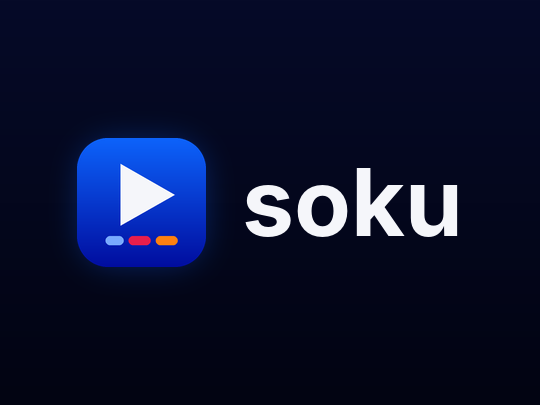
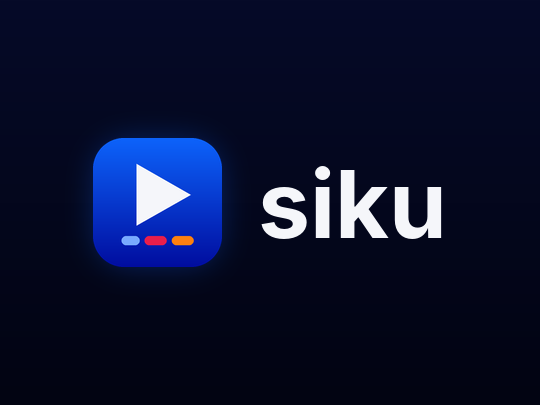
chore: rename the channel from Soku to Siku
Updates the channel title, wordmark artwork, client identification header,
registry section, package names and docs.

Claude-Session: https://claude.ai/code/session_0197yKnvHq8dGXvHnpw7Q92Y

Changed region(s): [[0.1185, 0.3259, 0.4148, 0.6815], [0.4444, 0.4148, 0.8593, 0.5926]]

diff --git a/scripts/make_images.py b/scripts/make_images.py
@@ -1,6 +1,6 @@
-"""Generates Soku's channel artwork (icons, splash, logo) with Pillow.
+"""Generates Siku's channel artwork (icons, splash, logo) with Pillow.
 
-Soku uses its own mark — a rounded play tile with a three-color "speed" stripe —
+Siku uses its own mark — a rounded play tile with a three-color "speed" stripe —
 in Silo's palette. It deliberately does not reproduce the Silo logo.
 Run: python3 scripts/make_images.py
 """
@@ -60,9 +60,9 @@ def wordmark_width(font, text):
 
 
 def lockup(canvas, center, mark_size, font_size):
-    """Draws mark + 'soku' wordmark centred at `center` on an RGB canvas."""
+    """Draws mark + 'siku' wordmark centred at `center` on an RGB canvas."""
     font = ImageFont.truetype(FONT, font_size)
-    text = "soku"
+    text = "siku"
     gap = int(mark_size * 0.28)
     tw = wordmark_width(font, text)
     total = mark_size + gap + tw

diff --git a/tools/mock_server.py b/tools/mock_server.py
@@ -1,10 +1,10 @@
-"""A small fake Silo server for exercising Soku in the brs-engine simulator.
+"""A small fake Silo server for exercising Siku in the brs-engine simulator.
 
 It speaks the /api/v2 shapes documented in docs/api-spec.md, with a synthetic
 library (movies, series with seasons and episodes, people) and generated artwork.
 
 Run:  python3 tools/mock_server.py [--port 8097]
-Then connect Soku to http://127.0.0.1:8097
+Then connect Siku to http://127.0.0.1:8097
 
 Device sign-in auto-approves on the second poll. Password login accepts any
 username with password "silo". The "Kids" profile has PIN 1234.

diff --git a/tools/simulate.py b/tools/simulate.py
@@ -41,7 +41,7 @@ def main():
     OUT = os.path.abspath(args.out)
     os.makedirs(OUT, exist_ok=True)
     log = open(os.path.join(OUT, "console.log"), "wb")
-    zip_path = os.path.join(OUT, "soku.zip")
+    zip_path = os.path.join(OUT, "siku.zip")
 
     subprocess.run(["sh", "-c", "cd '%s' && zip -qrD '%s' manifest source components images fonts -x '*.DS_Store'" % (ROOT, zip_path)], check=True)
     args.app = zip_path

diff --git a/README.md b/README.md
@@ -1,12 +1,12 @@
-# Soku
+# Siku
 
-**Soku is a Roku client for [Silo](https://github.com/Silo-Server/silo-server), the self-hosted media server.**
+**Siku is a Roku client for [Silo](https://github.com/Silo-Server/silo-server), the self-hosted media server.**
 
-Soku brings your Silo library to Roku TVs and streaming players. It is a port of the official [Silo Android TV client](https://github.com/Silo-Server/silo-android) to Roku SceneGraph and BrightScript, and aims to look, feel and behave like it on a 10-foot, remote-driven screen.
+Siku brings your Silo library to Roku TVs and streaming players. It is a port of the official [Silo Android TV client](https://github.com/Silo-Server/silo-android) to Roku SceneGraph and BrightScript, and aims to look, feel and behave like it on a 10-foot, remote-driven screen.
 
-> **Status:** early development. Soku is not yet usable. This README describes the planned v1 scope; the checklist below tracks what is built.
+> **Status:** early development. Siku is not yet usable. This README describes the planned v1 scope; the checklist below tracks what is built.
 >
-> Soku is an independent community project. It is not made or endorsed by Silo Media L.L.C. "Silo" is a trademark of Silo Media L.L.C. and is used here only to say what Soku connects to.
+> Siku is an independent community project. It is not made or endorsed by Silo Media L.L.C. "Silo" is a trademark of Silo Media L.L.C. and is used here only to say what Siku connects to.
 
 ---
 
@@ -31,7 +31,7 @@ Not planned for v1: Watch Party, Requests, AI subtitle tools, ebooks (also absen
 
 ## Install (side-load)
 
-Soku is not in the Roku Channel Store. To run it on your own Roku:
+Siku is not in the Roku Channel Store. To run it on your own Roku:
 
 1. **Turn on developer mode.** On the Roku remote press **Home ×3, Up ×2, Right, Left, Right, Left, Right**. Note the IP address shown, accept the license and set a developer password. The Roku restarts.
 2. **Build the package** (see [Build](#build)) or download a release zip.
@@ -46,7 +46,7 @@ Requirements: Node.js 18+ and `zip`.
 ```sh
 npm install          # installs the BrighterScript compiler used for linting
 npm run lint         # validates BrightScript and SceneGraph XML
-npm run package      # writes out/soku.zip, ready to side-load
+npm run package      # writes out/siku.zip, ready to side-load
 ```
 
 To deploy straight to a Roku in developer mode:
@@ -72,7 +72,7 @@ scripts/                 Packaging and deploy helpers
 
 ## How it works
 
-Soku talks to a Silo server over the same HTTP API as the Android clients. The server owns the library, metadata, transcoding decisions and accounts; Soku displays them and drives playback with Roku's native `Video` node. When playback starts, Soku describes what this Roku can decode (H.264, HEVC, AAC, AC3/EAC3, HLS…) so the server can pick Direct Play, Remux or Transcode.
+Siku talks to a Silo server over the same HTTP API as the Android clients. The server owns the library, metadata, transcoding decisions and accounts; Siku displays them and drives playback with Roku's native `Video` node. When playback starts, Siku describes what this Roku can decode (H.264, HEVC, AAC, AC3/EAC3, HLS…) so the server can pick Direct Play, Remux or Transcode.
 
 ## References
 
@@ -82,6 +82,6 @@ Soku talks to a Silo server over the same HTTP API as the Android clients. The s
 
 ## License
 
-Soku is free software, released under the **GNU Affero General Public License v3.0 or later** (`AGPL-3.0-or-later`). See [LICENSE](LICENSE). It ports logic and UI from the AGPL-3.0 [Silo Android client](https://github.com/Silo-Server/silo-android).
+Siku is free software, released under the **GNU Affero General Public License v3.0 or later** (`AGPL-3.0-or-later`). See [LICENSE](LICENSE). It ports logic and UI from the AGPL-3.0 [Silo Android client](https://github.com/Silo-Server/silo-android).
 
-The Silo name and logo are trademarks of Silo Media L.L.C. and are not covered by this license. Soku uses its own logo.
+The Silo name and logo are trademarks of Silo Media L.L.C. and are not covered by this license. Siku uses its own logo.

diff --git a/docs/ARCHITECTURE.md b/docs/ARCHITECTURE.md
@@ -1,6 +1,6 @@
-# Soku architecture
+# Siku architecture
 
-Soku is a Roku SceneGraph channel written in BrightScript. It ports the Silo Android TV client, so it should look and behave the same. Read these first:
+Siku is a Roku SceneGraph channel written in BrightScript. It ports the Silo Android TV client, so it should look and behave the same. Read these first:
 
 - [`design-spec.md`](design-spec.md): colors, type, spacing, focus, and every screen's layout. Pixel values are for the 1920×1080 canvas.
 - [`api-spec.md`](api-spec.md): the Silo `/api/v2` endpoints, with example JSON.
@@ -102,7 +102,7 @@ A screen is `<component name="XScreen" extends="BaseScreen">` (`components/BaseS
 
 ## Calling the API
 
-Soku uses the Silo **v2 API only** (`/api/v2/...`). `ApiTask` refuses any `path` outside `/api/v2/`. Never call `/api/v1` or the root `/health` route.
+Siku uses the Silo **v2 API only** (`/api/v2/...`). `ApiTask` refuses any `path` outside `/api/v2/`. Never call `/api/v1` or the root `/health` route.
 
 
 ```brightscript
